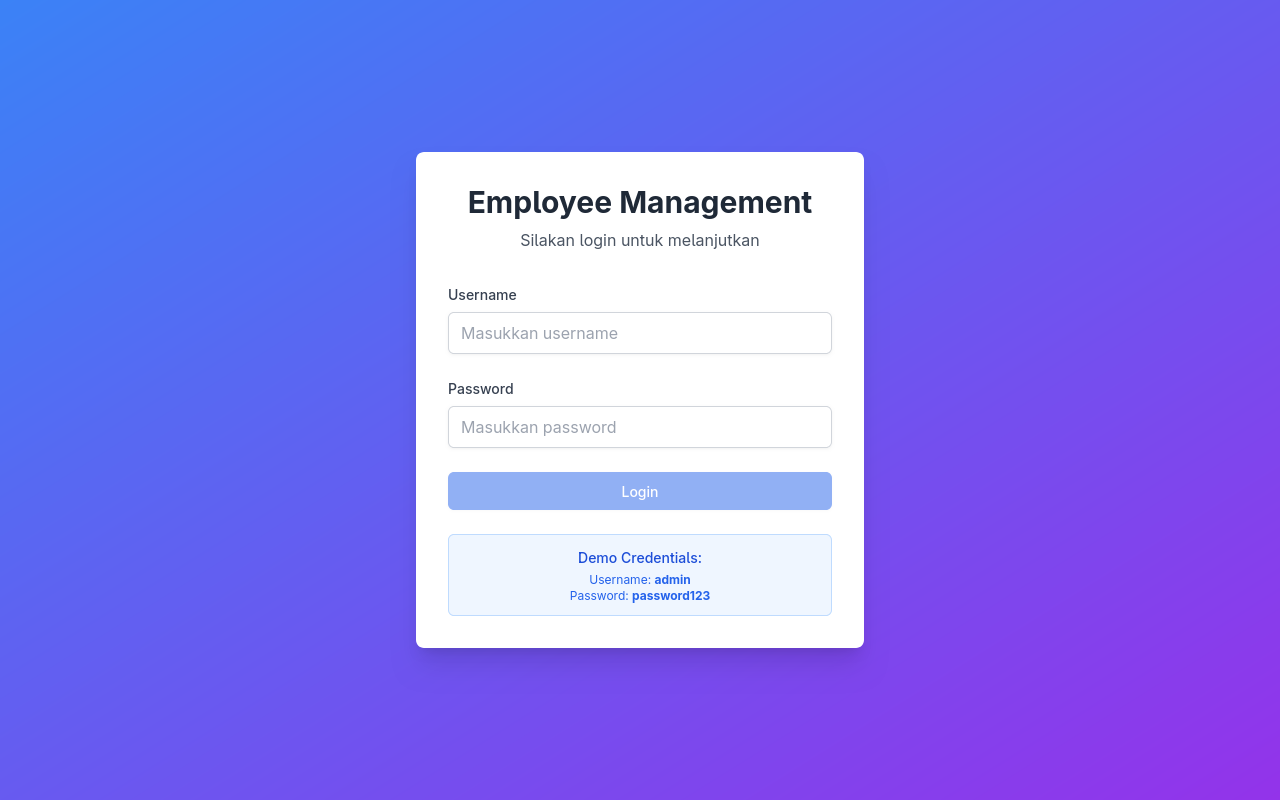
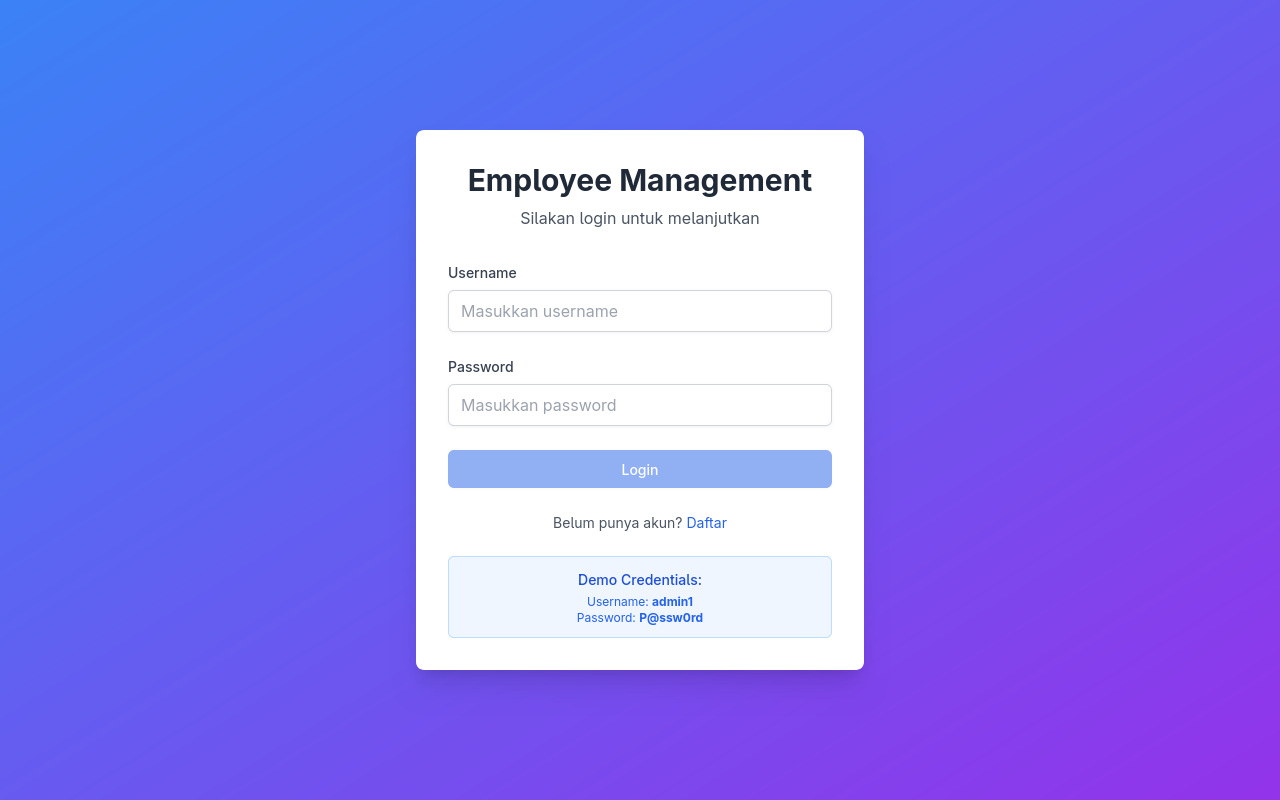
fix: escape karakter '@' pada demo password untuk mencegah NG5002

Changed region(s): [[0.3125, 0.3125, 0.6875, 0.8438], [0.3125, 0.1562, 0.6875, 0.3125]]

diff --git a/src/app/components/login/login.component.html b/src/app/components/login/login.component.html
@@ -46,7 +46,7 @@
         <p class="text-sm text-blue-700 font-medium mb-1">Demo Credentials:</p>
         <p class="text-xs text-blue-600">Username: <strong>admin1</strong></p>
         <p class="text-xs text-blue-600">
-          Password: <strong>P@ssw0rd</strong>
+          Password: <strong>P&#64;ssw0rd</strong>
         </p>
       </div>
     </div>
